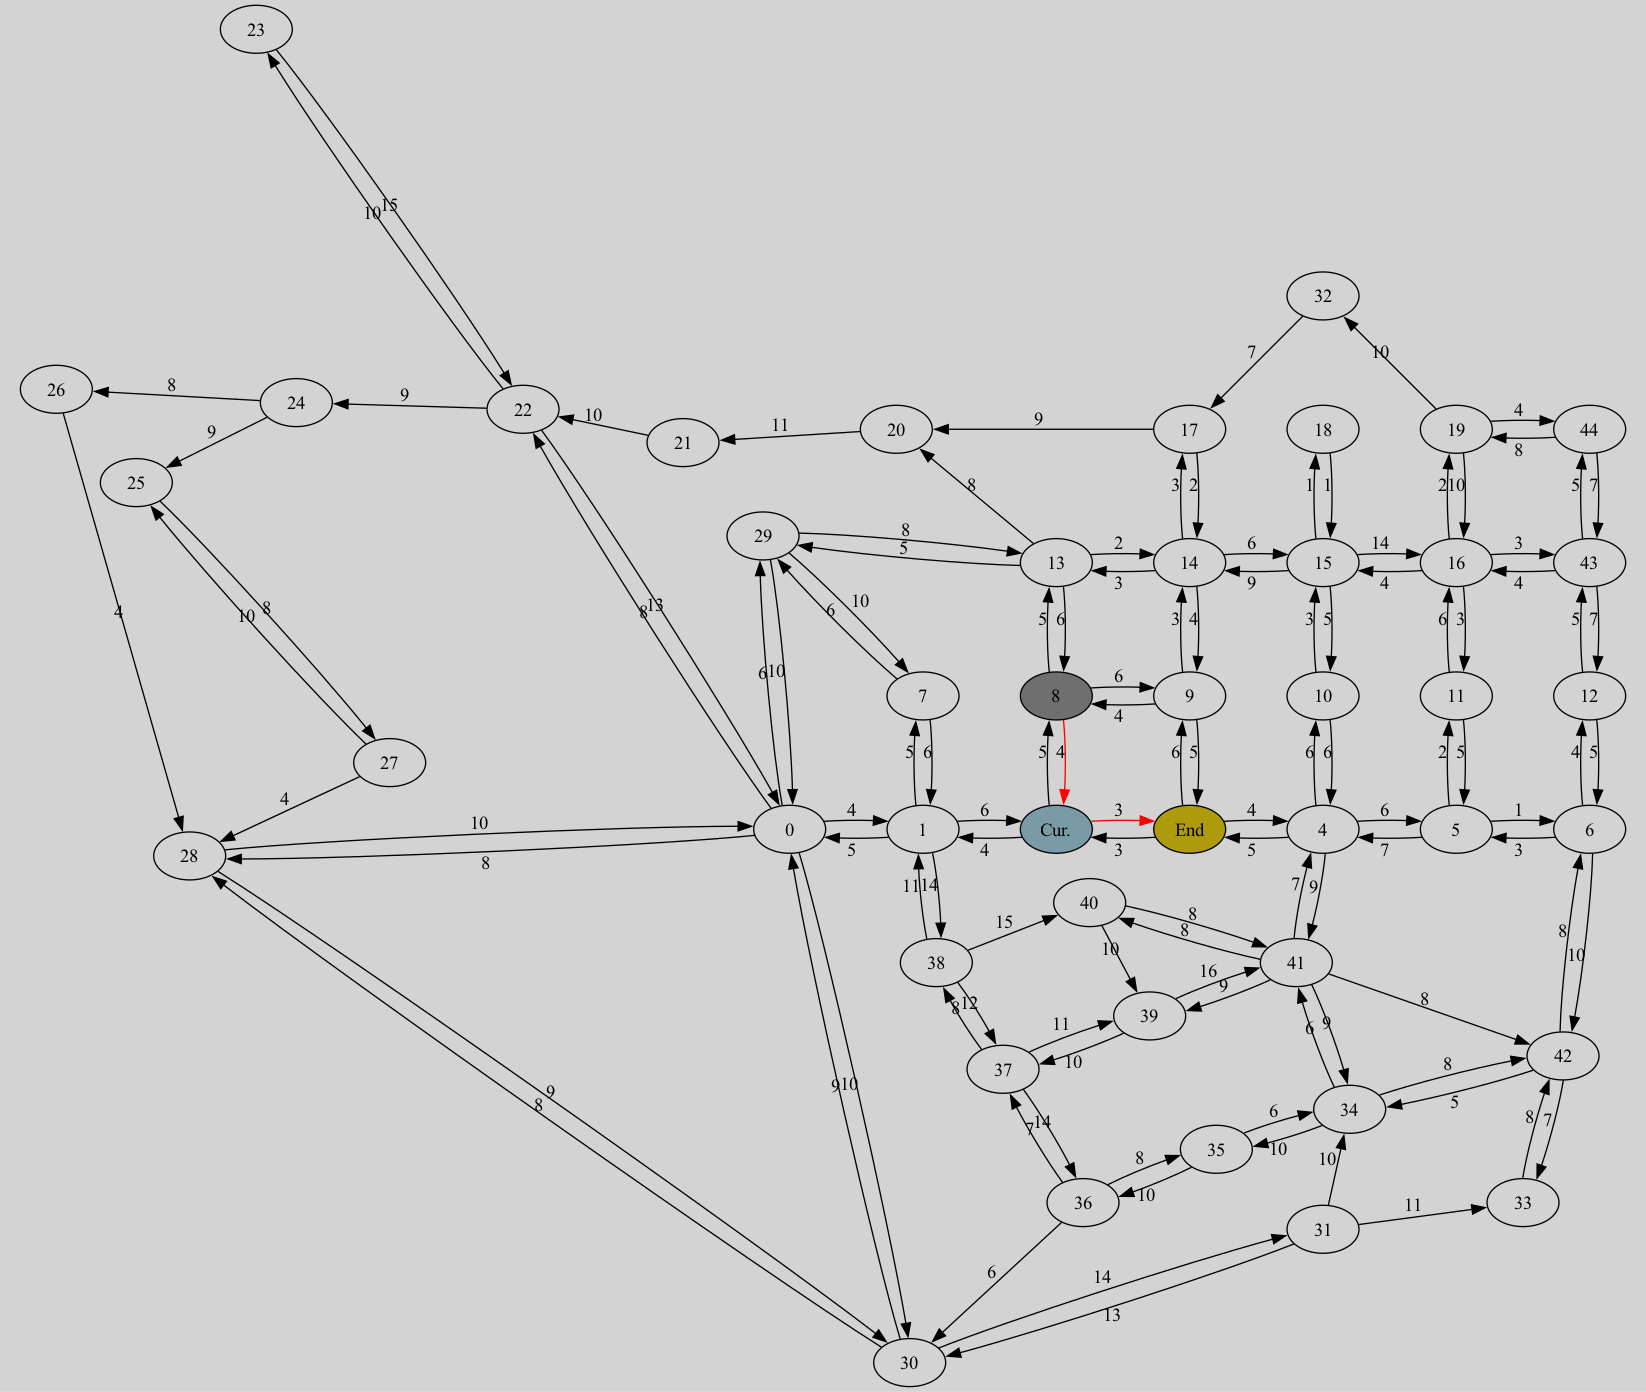
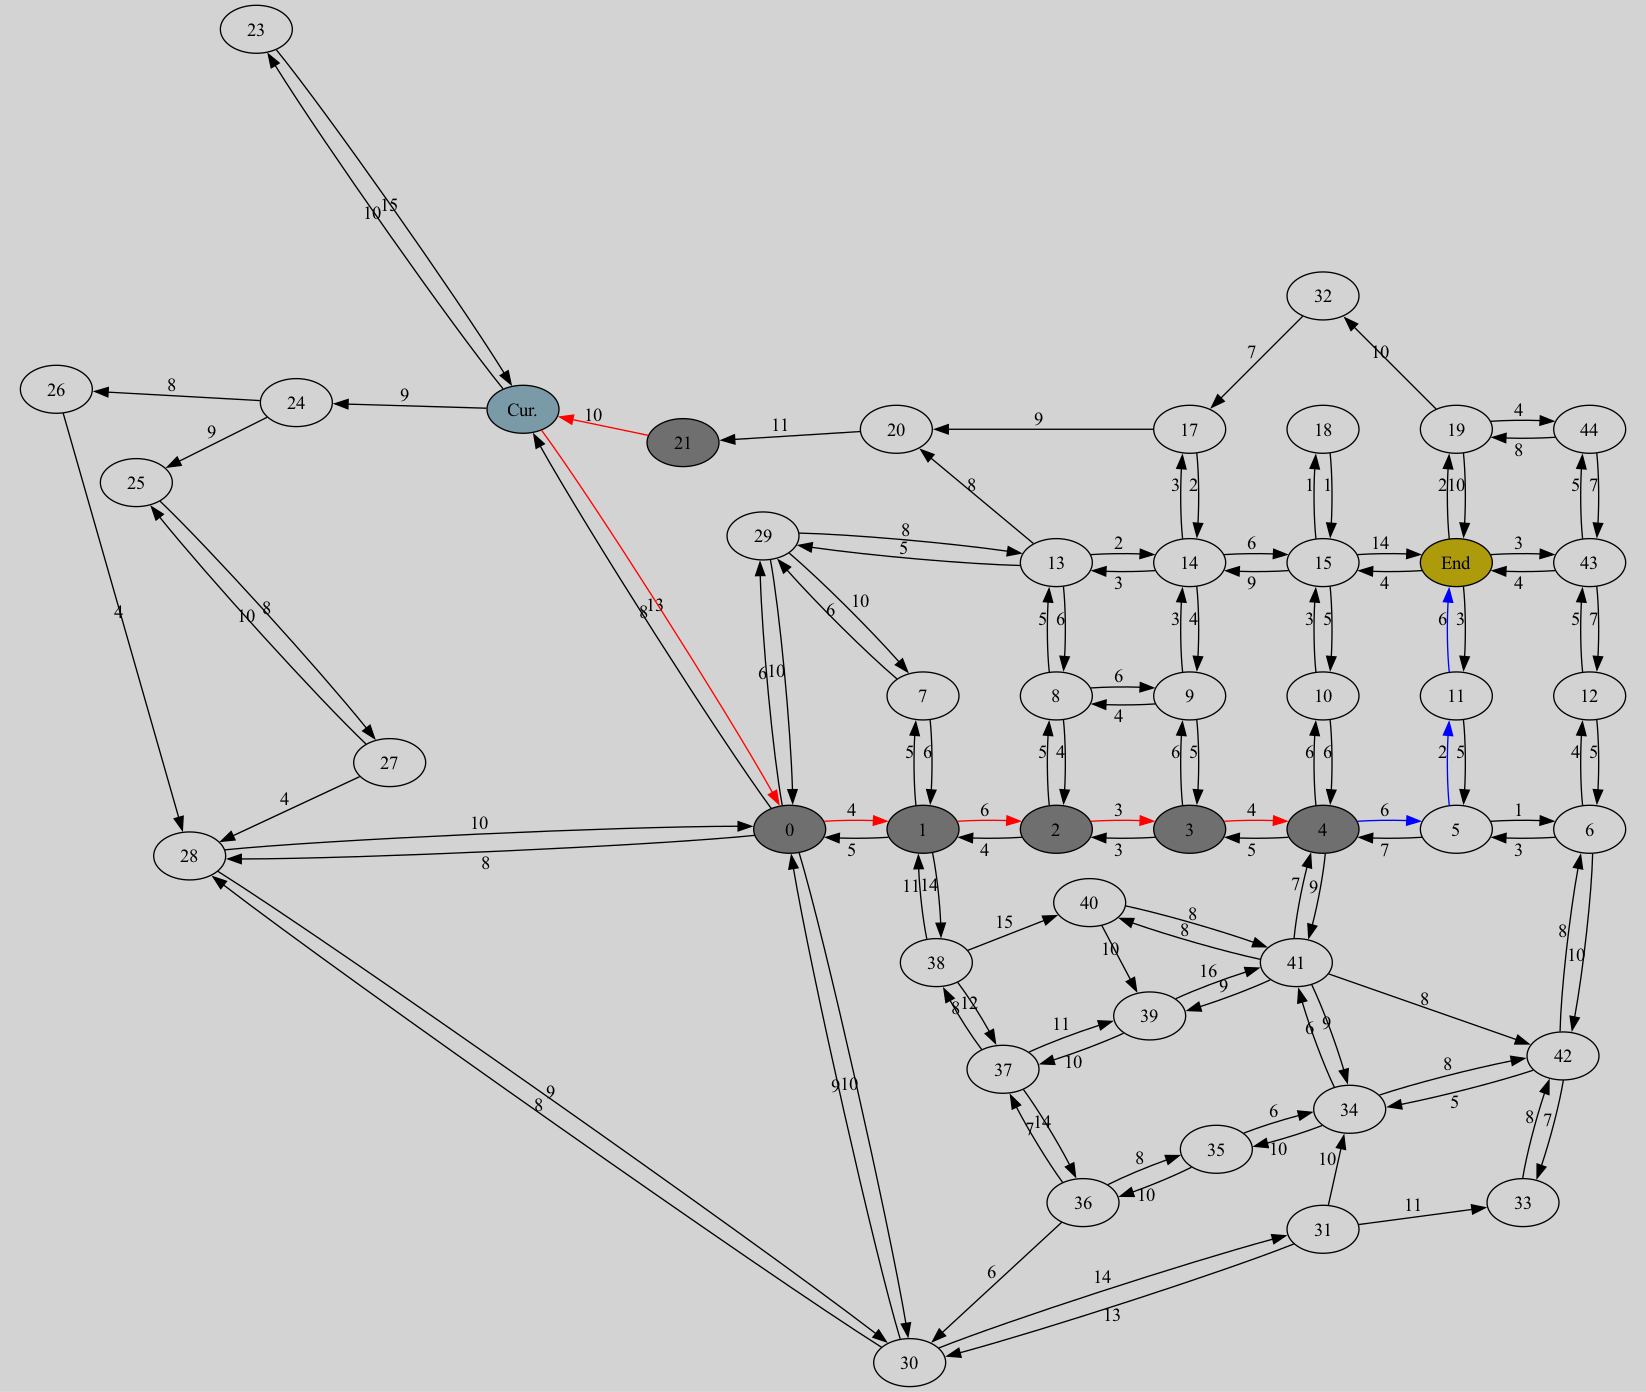
Add example image

diff --git a/README.md b/README.md
@@ -30,3 +30,8 @@ cd scripts/
 ./configure.sh
 ./build.sh
 ./run.sh
+```
+
+## Example Multithreaded Path (red for edges the main thread found, blue for edges the auxiliary thread found)
+
+![Alt text](example.png)
